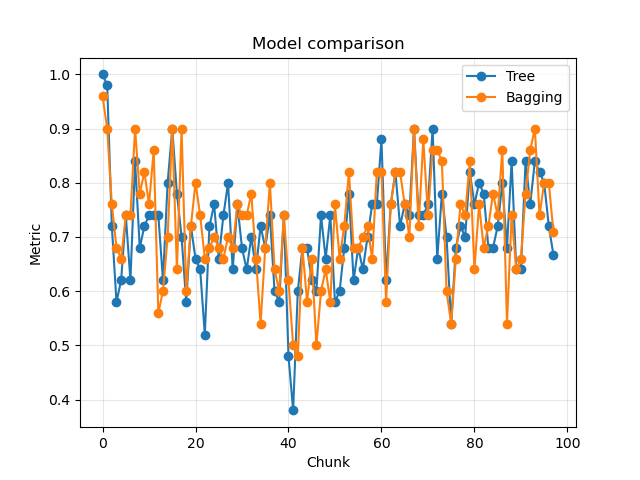
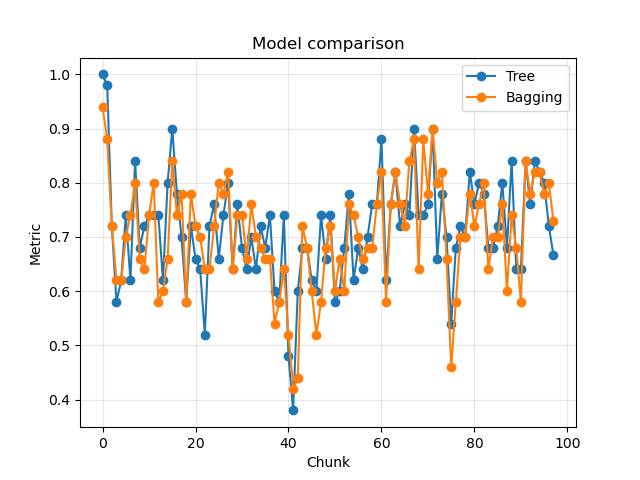
draft report

Changed region(s): [[0.1562, 0.1875, 0.875, 0.8438]]

diff --git a/NumCompute/tests/numcompute_stream/ensemble_tests.py b/NumCompute/tests/numcompute_stream/ensemble_tests.py
@@ -18,19 +18,19 @@ class TestBaggingClassifier(unittest.TestCase):
         self.y = np.array([0, 0, 0, 1, 1, 1])
 
     def test_init_creates_n_estimators(self):
-        bag = BaggingClassifier(n_estimators=5, max_depth=2, random_state=0)
+        bag = BaggingClassifier(n_estimators=5, max_depth=2, random_state=42)
 
         self.assertEqual(len(bag.estimators_), 5)
         self.assertEqual(bag.estimators_[0].max_depth, 2)
         self.assertIsNone(bag.classes_)
 
     def test_partial_fit_returns_self(self):
-        bag = BaggingClassifier(n_estimators=3, random_state=0)
+        bag = BaggingClassifier(n_estimators=3, random_state=42)
         out = bag.partial_fit(self.X, self.y)
         self.assertIs(out, bag)
 
     def test_all_estimators_get_fitted(self):
-        bag = BaggingClassifier(n_estimators=4, random_state=0)
+        bag = BaggingClassifier(n_estimators=4, random_state=42)
         bag.partial_fit(self.X, self.y)
 
         for tree in bag.estimators_:
@@ -38,7 +38,7 @@ class TestBaggingClassifier(unittest.TestCase):
             self.assertGreaterEqual(tree.tree_.n_samples, 1)
 
     def test_predict_returns_labels_from_training_classes(self):
-        bag = BaggingClassifier(n_estimators=5, random_state=0)
+        bag = BaggingClassifier(n_estimators=5, random_state=42)
         bag.partial_fit(self.X, self.y)
         y_pred = bag.predict(self.X)
 
@@ -47,7 +47,7 @@ class TestBaggingClassifier(unittest.TestCase):
             self.assertIn(label, self.y)
 
     def test_two_partial_fits_keep_all_trees_updated(self):
-        bag = BaggingClassifier(n_estimators=3, random_state=1)
+        bag = BaggingClassifier(n_estimators=3, random_state=42)
         bag.partial_fit(self.X[:3], self.y[:3])
         counts_after_one = [tree.tree_.n_samples for tree in bag.estimators_]
         bag.partial_fit(self.X[3:], self.y[3:])

diff --git a/NumCompute/benchmark/streaming_models.py b/NumCompute/benchmark/streaming_models.py
@@ -46,7 +46,7 @@ def build_models():
             ("scale", StandardScaler()),
             (
                 "model",
-                BaggingClassifier(n_estimators=5, max_depth=5, random_state=0),
+                BaggingClassifier(n_estimators=5, max_depth=5, random_state=42),
             ),
         ]),
     }